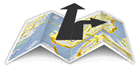
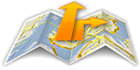
make trips and blogs available on the whole site /pass through (#678)
git-svn-id: file:///home/jaliste/hcvol/hcvol/branches/production@5954 4f49b16c-3c57-40ef-8e22-7452baa6c33a

diff --git a/templates/apps/rox/startpage.php b/templates/apps/rox/startpage.php
@@ -16,41 +16,35 @@ MERCHANTABILITY or FITNESS FOR A PARTICULAR PURPOSE.  See the
 GNU General Public License for more details.
 
 You should have received a copy of the GNU General Public License
-along with this program; if not, see <http://www.gnu.org/licenses/> or 
-write to the Free Software Foundation, Inc., 59 Temple Place - Suite 330, 
+along with this program; if not, see <http://www.gnu.org/licenses/> or
+write to the Free Software Foundation, Inc., 59 Temple Place - Suite 330,
 Boston, MA  02111-1307, USA.
 
 */
 $words = new MOD_words();
 ?>
 
-<div class="subcolumns index_row1">
-  <div class="c50l">
-    <div class="subcl">
-      <div class="info">
-        <div class="floatbox" style="margin-bottom: 10px">
-            <h3 style="padding-left: 0;"><?php  echo $words->get('IndexPageWord3');?></h3>
-            <p><?php  echo $words->get('IndexPageWord4');?></p>
-        </div> <!-- floatbox -->
-          <h3 style="padding-left: 0;"><?php echo $words->get('IndexPageWord19');?></h3>
-        <p><?php echo $words->get('ToChangeLanguageClickFlag'); ?></p>
-        <p><?php echo $flagList; ?></p>
-      </div> <!-- info index -->
-    </div> <!-- subcl -->
-  </div> <!-- c50l -->
+<div id="index">
+  <div class="subcolumns" style="text-align: center;">
+    <div class="c50l">
+      <div class="subcl">
+        <div class="info">
+            <h3><?php echo $words->get('IndexPageWord_share');?></h3>
+            <p><a href="tour/share"><img src="images/tour/arrow_door_orange.png" alt="<?php echo $words->get('IndexPageWord_share');?>" /></a></p>
+            <p><?php echo $words->get('IndexPageWord_shareText');?></p>
+        </div> <!-- info index -->
+      </div> <!-- subcl -->
+    </div> <!-- c33l -->
 
-  <div class="c50r">
-    <div class="subcr">
-      <div class="info">
-        <div class="floatbox" style="margin-bottom: 10px">
-          <h3 style="padding-left: 0;"><?php echo $words->get('IndexPageWord9');?></h3>
-          <p><?php  echo $words->get('IndexPageWord10');?></p>
-        </div> <!-- floatbox -->
-        <div class="floatbox">
-          <h3 style="padding-left: 0;"><?php echo $words->get('IndexPageWord11');?></h3>
-        </div> <!-- floatbox -->
-        <p><?php  echo $words->get('IndexPageWord12');?></p>
-      </div> <!-- info index -->
-    </div> <!-- subcr -->
-  </div> <!-- c50r -->
-</div> <!-- subcolumns index_row1 -->
+    <div class="c50l">
+      <div class="subcl">
+        <div class="info">
+            <h3><?php echo $words->get('IndexPageWord_plan');?></h3>
+            <p><a href="tour/trips"><img src="images/tour/arrow_plan_orange.png" alt="<?php echo $words->get('IndexPageWord_plan');?>" /></a></p>
+            <p><?php echo $words->get('IndexPageWord_planText');?></p>
+        </div> <!-- info index -->
+      </div> <!-- subcl -->
+    </div> <!-- c33l -->
+
+  </div> <!-- subcolumns index_row1 -->
+</div> <!-- index -->

diff --git a/htdocs/bw/layout/menus.php b/htdocs/bw/layout/menus.php
@@ -96,7 +96,9 @@ function Menu2($link = "", $tt = "") {
         echo "          <li", factive($link, "../main"), "><a href=\"../main\"><span>", ww("Menu"), "</span></a></li>\n";
 	   echo "          <li", factive($link, "member.php?cid=".$Username), "><a href=\"".bwlink("member.php?cid=".$Username)."\"><span>", ww("MyProfile"), "</span></a></li>\n";
 	}
-	echo "          <li", factive($link, "../searchmembers/index"), "><a href=\"".bwlink("searchmembers/index", true)."\"><span>", ww('FindMembers'), "</span></a></li>\n";
+	echo "          <li", factive($link, "../searchmembers"), "><a href=\"".bwlink("searchmembers", true)."\"><span>", ww('FindMembers'), "</span></a></li>\n";
+	echo "          <li", factive($link, "../trip"), "><a href=\"../trip\"><span>".ww("Trips")."</span></a></li>\n";  
+	echo "          <li", factive($link, "../blog"), "><a href=\"../blog\"><span>".ww("Blogs")."</span></a></li>\n";  
 	echo "          <li", factive($link, "../forums"), "><a href=\"../forums\"><span>".ww("Community")."</span></a></li>\n";  
 	echo "          <li", factive($link, "groups.php"), "><a href=\"".bwlink("groups.php")."\"><span>", ww('Groups'), "</span></a></li>\n";
   echo "          <li", factive($link, "../gallery"), "><a href=\"../gallery\"><span>".ww("Gallery")."</span></a></li>\n";
@@ -208,6 +210,7 @@ if (($m->Status!='Pending') and ($m->Status!='NeedMore')  and ($m->Status!='Mail
 if (($m->Status!='Pending') and ($m->Status!='NeedMore')  and ($m->Status!='MailToConfirm')) {    
 	echo "            <li", factive($link, "viewcomments.php?cid=" . $IdMember), "><a href=\"".bwlink("viewcomments.php?cid=" . $IdMember, "")."\"><span>", ww('ViewComments'), "(", $m->NbComment, ")</span></a></li>\n";
 }
+        echo "            <li", factive($link, "../trip"), "><a href=\"../trip/show/".$m->Username."\"><span>", ww("Trips"), "</span></a></li>\n"; 
         echo "            <li", factive($link, "../blog"), "><a href=\"../blog/".$m->Username."\"><span>", ww("Blog"), "</span></a></li>\n"; 
         echo "            <li", factive($link, "../gallery"), "><a href=\"../gallery/show/user/".$m->Username."\"><span>", ww("Gallery"), "</span></a></li>\n"; 
 	?>

diff --git a/tools/page/roxlayout.page.php b/tools/page/roxlayout.page.php
@@ -27,7 +27,9 @@ class PageWithRoxLayout extends PageWithHTML
             $username = isset($_SESSION['Username']) ? $_SESSION['Username'] : '';
             $items[] = array('profile', 'bw/member.php?cid='.$username, 'MyProfile');
         }
-        $items[] = array('searchmembers', 'searchmembers/index', 'FindMembers');
+        $items[] = array('searchmembers', 'searchmembers', 'FindMembers');
+        $items[] = array('trips', 'trip', 'Trips');
+        $items[] = array('blogs', 'blog', 'Blogs');
         $items[] = array('forums', 'forums', 'Community');
         $items[] = array('groups', 'bw/groups.php', 'Groups');
         $items[] = array('gallery', 'gallery', 'Gallery');
